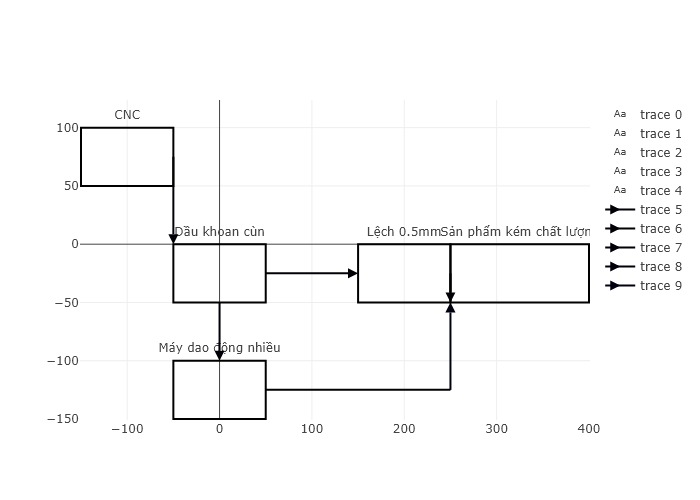
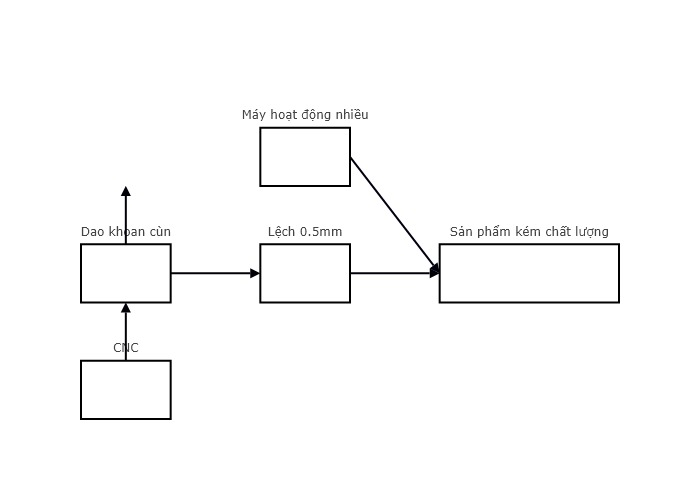
Add loop to regenerate diagram

diff --git a/app.py b/app.py
@@ -10,11 +10,11 @@ load_dotenv()
 
 def main():
     st.title("DENSO OCR")
-    st.write("Upload image:")
 
     image_file = st.file_uploader("Upload image:", type=["jpg", "png", "jpeg"])
     if image_file:
         try:
+            st.image(image_file)
             # Save the uploaded file to a temporary path
             temp_path = os.path.join("temp", image_file.name)
             os.makedirs("temp", exist_ok=True)
@@ -24,13 +24,16 @@ def main():
                 f.write(image_file.getbuffer())
             st.write("File uploaded successfully:", temp_path)
             diag_file = st.text_input(label="Enter Output name: (.jpg)")
-            jsonl_str = img2jsonl(image_path=temp_path)
-            st.write("JSONL string:", jsonl_str)
-            jsonl_content = process_jsonl_str(json_str=jsonl_str)
-            st.write("Processed JSONL content:", jsonl_content)
-            # st.write("Generated diagram path:", diag_path)
-            diag_path = jsonl2graph(jsonl_content, diag_name=diag_file)
-            st.image(diag_path)
+            if diag_file:
+                with st.status("Generating diagram..."):
+                    jsonl_str = img2jsonl(image_path=temp_path)
+                    # st.write("JSONL string:", jsonl_str)
+                    jsonl_content = process_jsonl_str(json_str=jsonl_str)
+                    # st.write("Processed JSONL content:", jsonl_content)
+                    # st.write("Generated diagram path:", diag_path)
+                    diag_path = jsonl2graph(jsonl_content, diag_name=diag_file)
+                    st.image(diag_path)
+                st.button("Rerun")
         except Exception as e:
             print(f"Error occurs: {e}")
 

diff --git a/draw.py b/draw.py
@@ -104,6 +104,9 @@ def jsonl2graph(jsonl_content, diag_name: Optional[str] = None):
     fig = go.Figure()
     fig.update_xaxes(showgrid=False)
     fig.update_yaxes(showgrid=False)
+    fig.update_layout(showlegend=False)
+    fig.update_xaxes(visible=False)
+    fig.update_yaxes(visible=False)
     fig.update_layout( polar_radialaxis_gridcolor="#ff0000", polar_angularaxis_gridcolor="#0000ff", )
 
     for idx in range(len(node_x1)):
